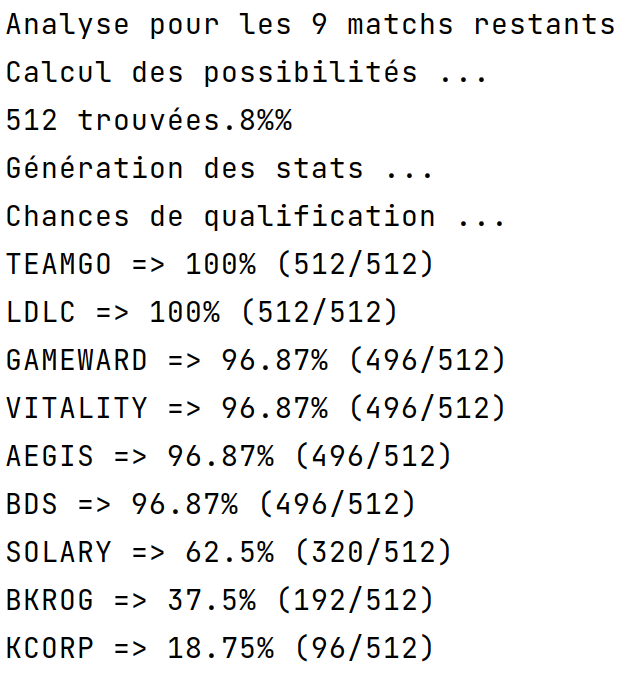
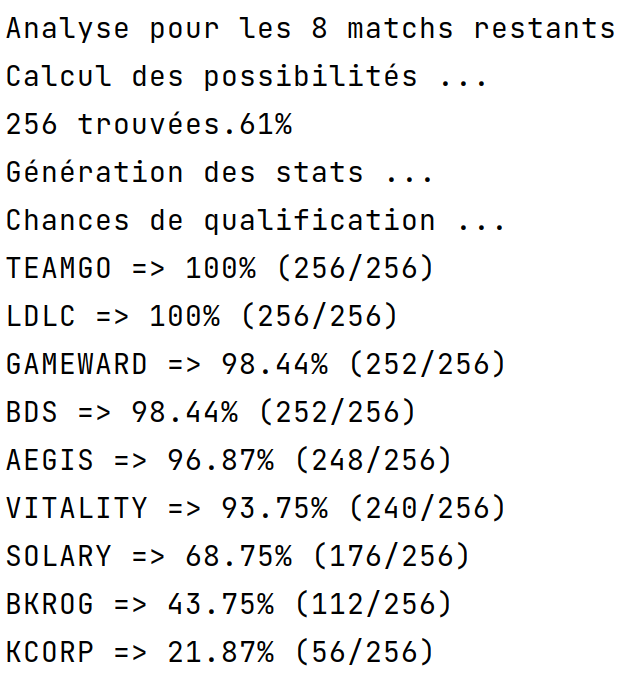
update results

diff --git a/run.php b/run.php
@@ -2,7 +2,7 @@
 // PARAMETRES
 $qualified = 6;
 $teams = [
-    "LDLC" => 10,
+    "LDLC" => 11,
     "TEAMGO" => 10,
     "VITALITY" => 9,
     "AEGIS" => 9,
@@ -16,7 +16,6 @@ $teams = [
 
 
 $matchs = [
-    ["VITALITY" => "LDLC"],
     ["KCORP" => "AEGIS"],
     ["SOLARY" => "TEAMGO"],
     ["BDS" => "GAMEWARD"],
